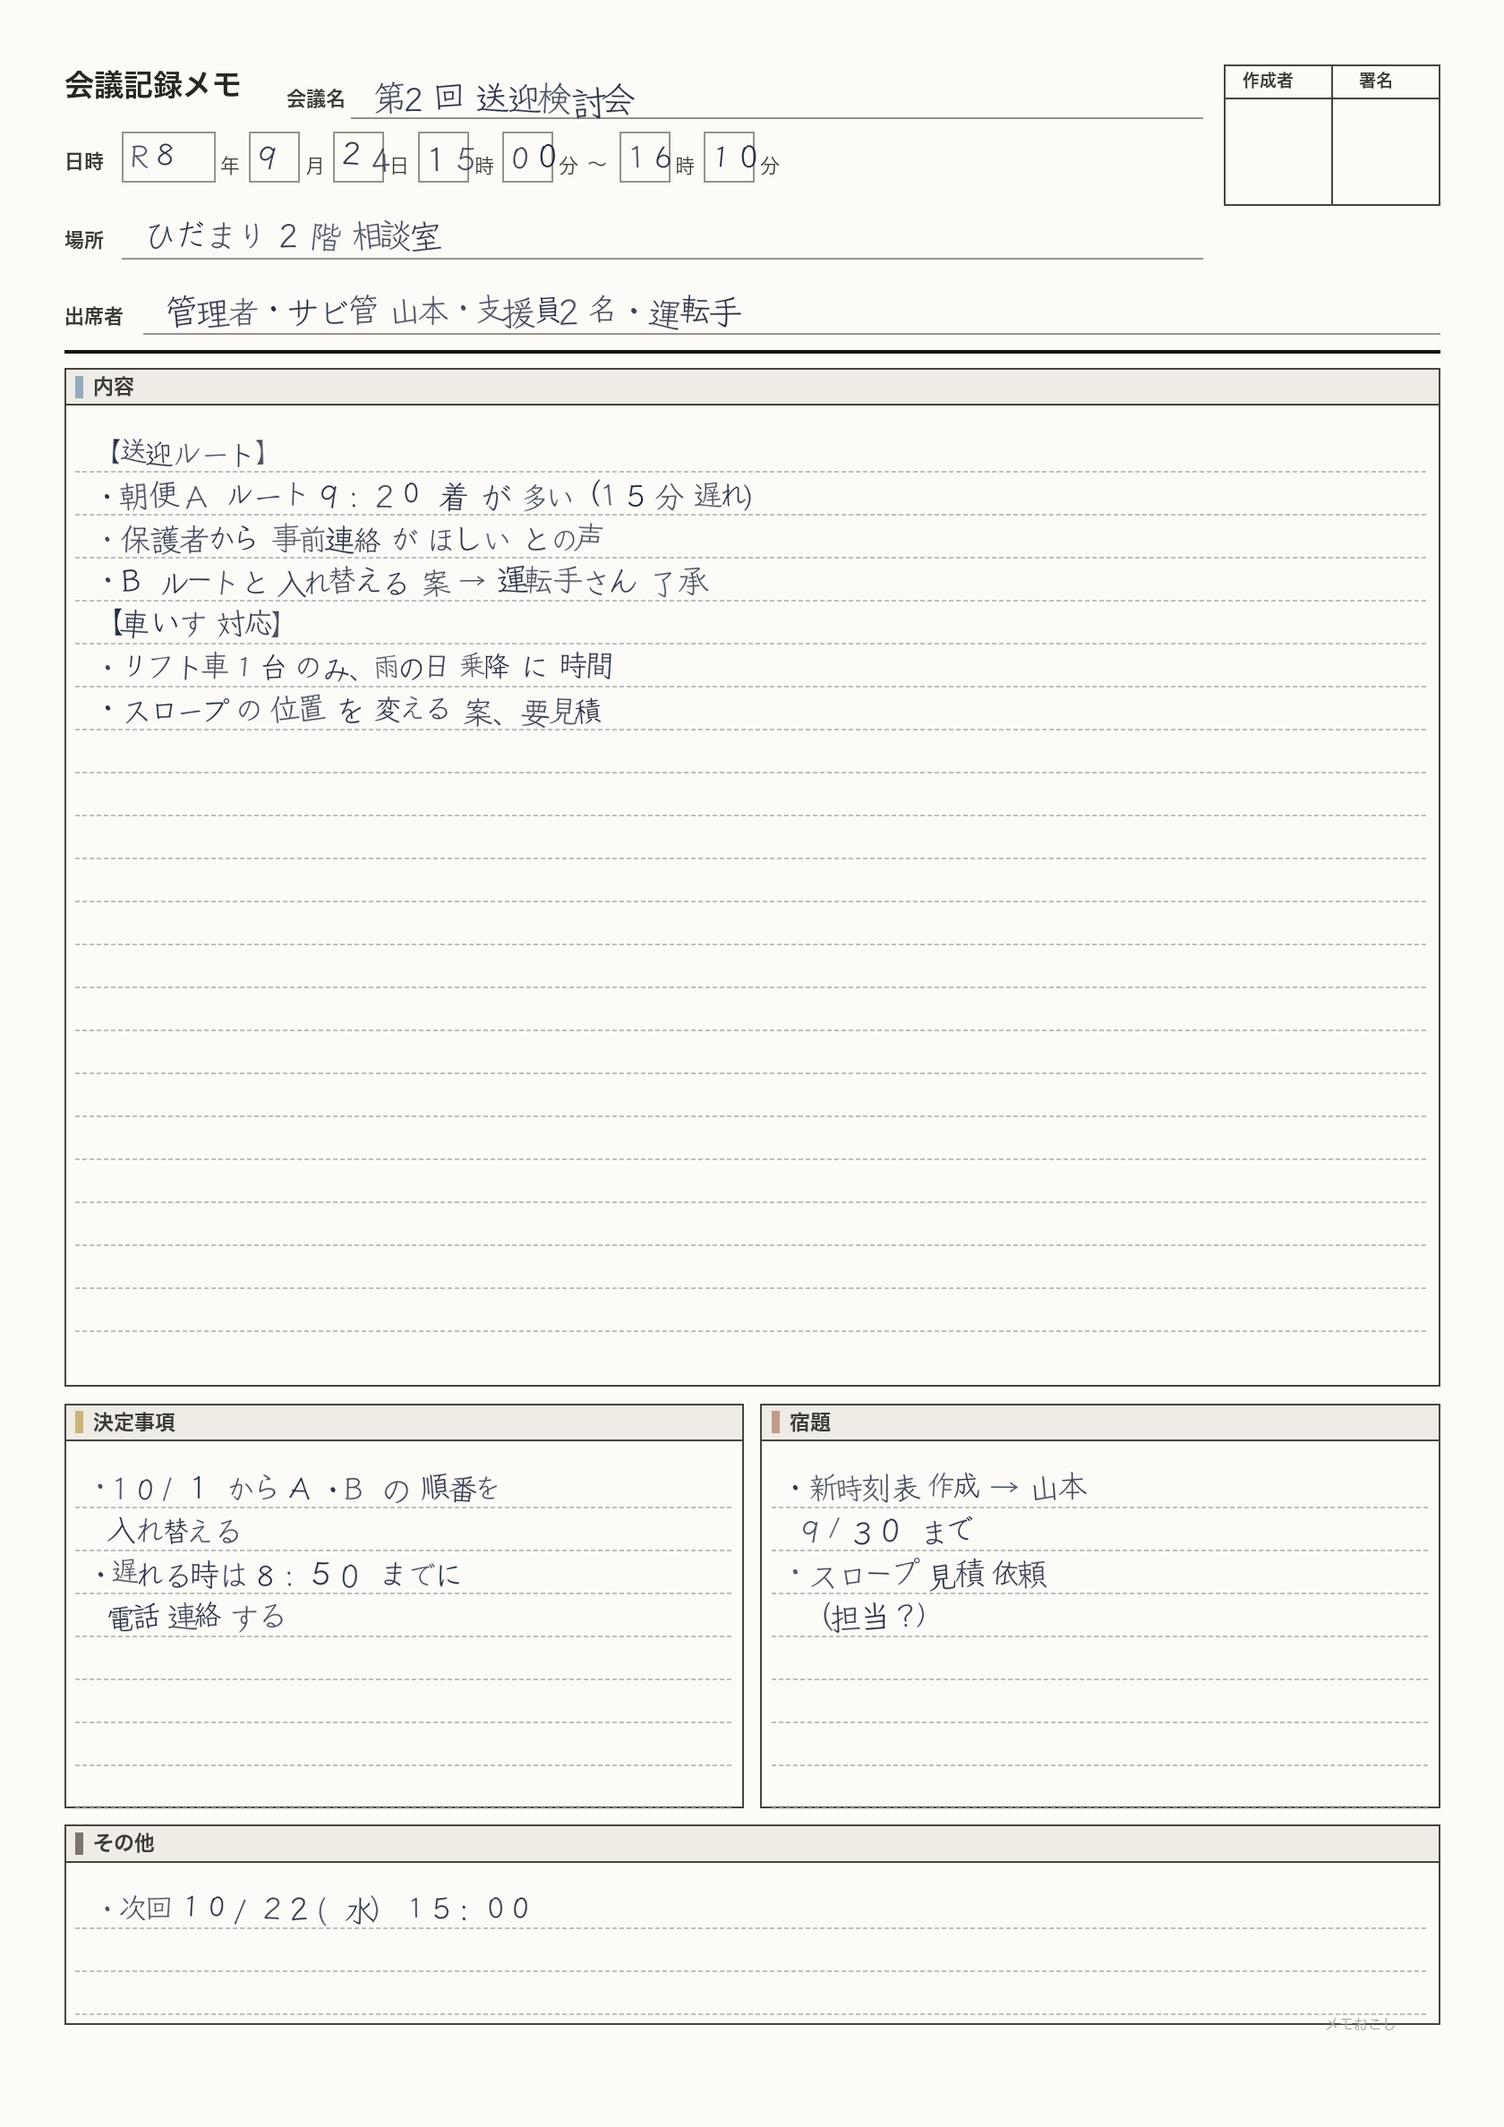
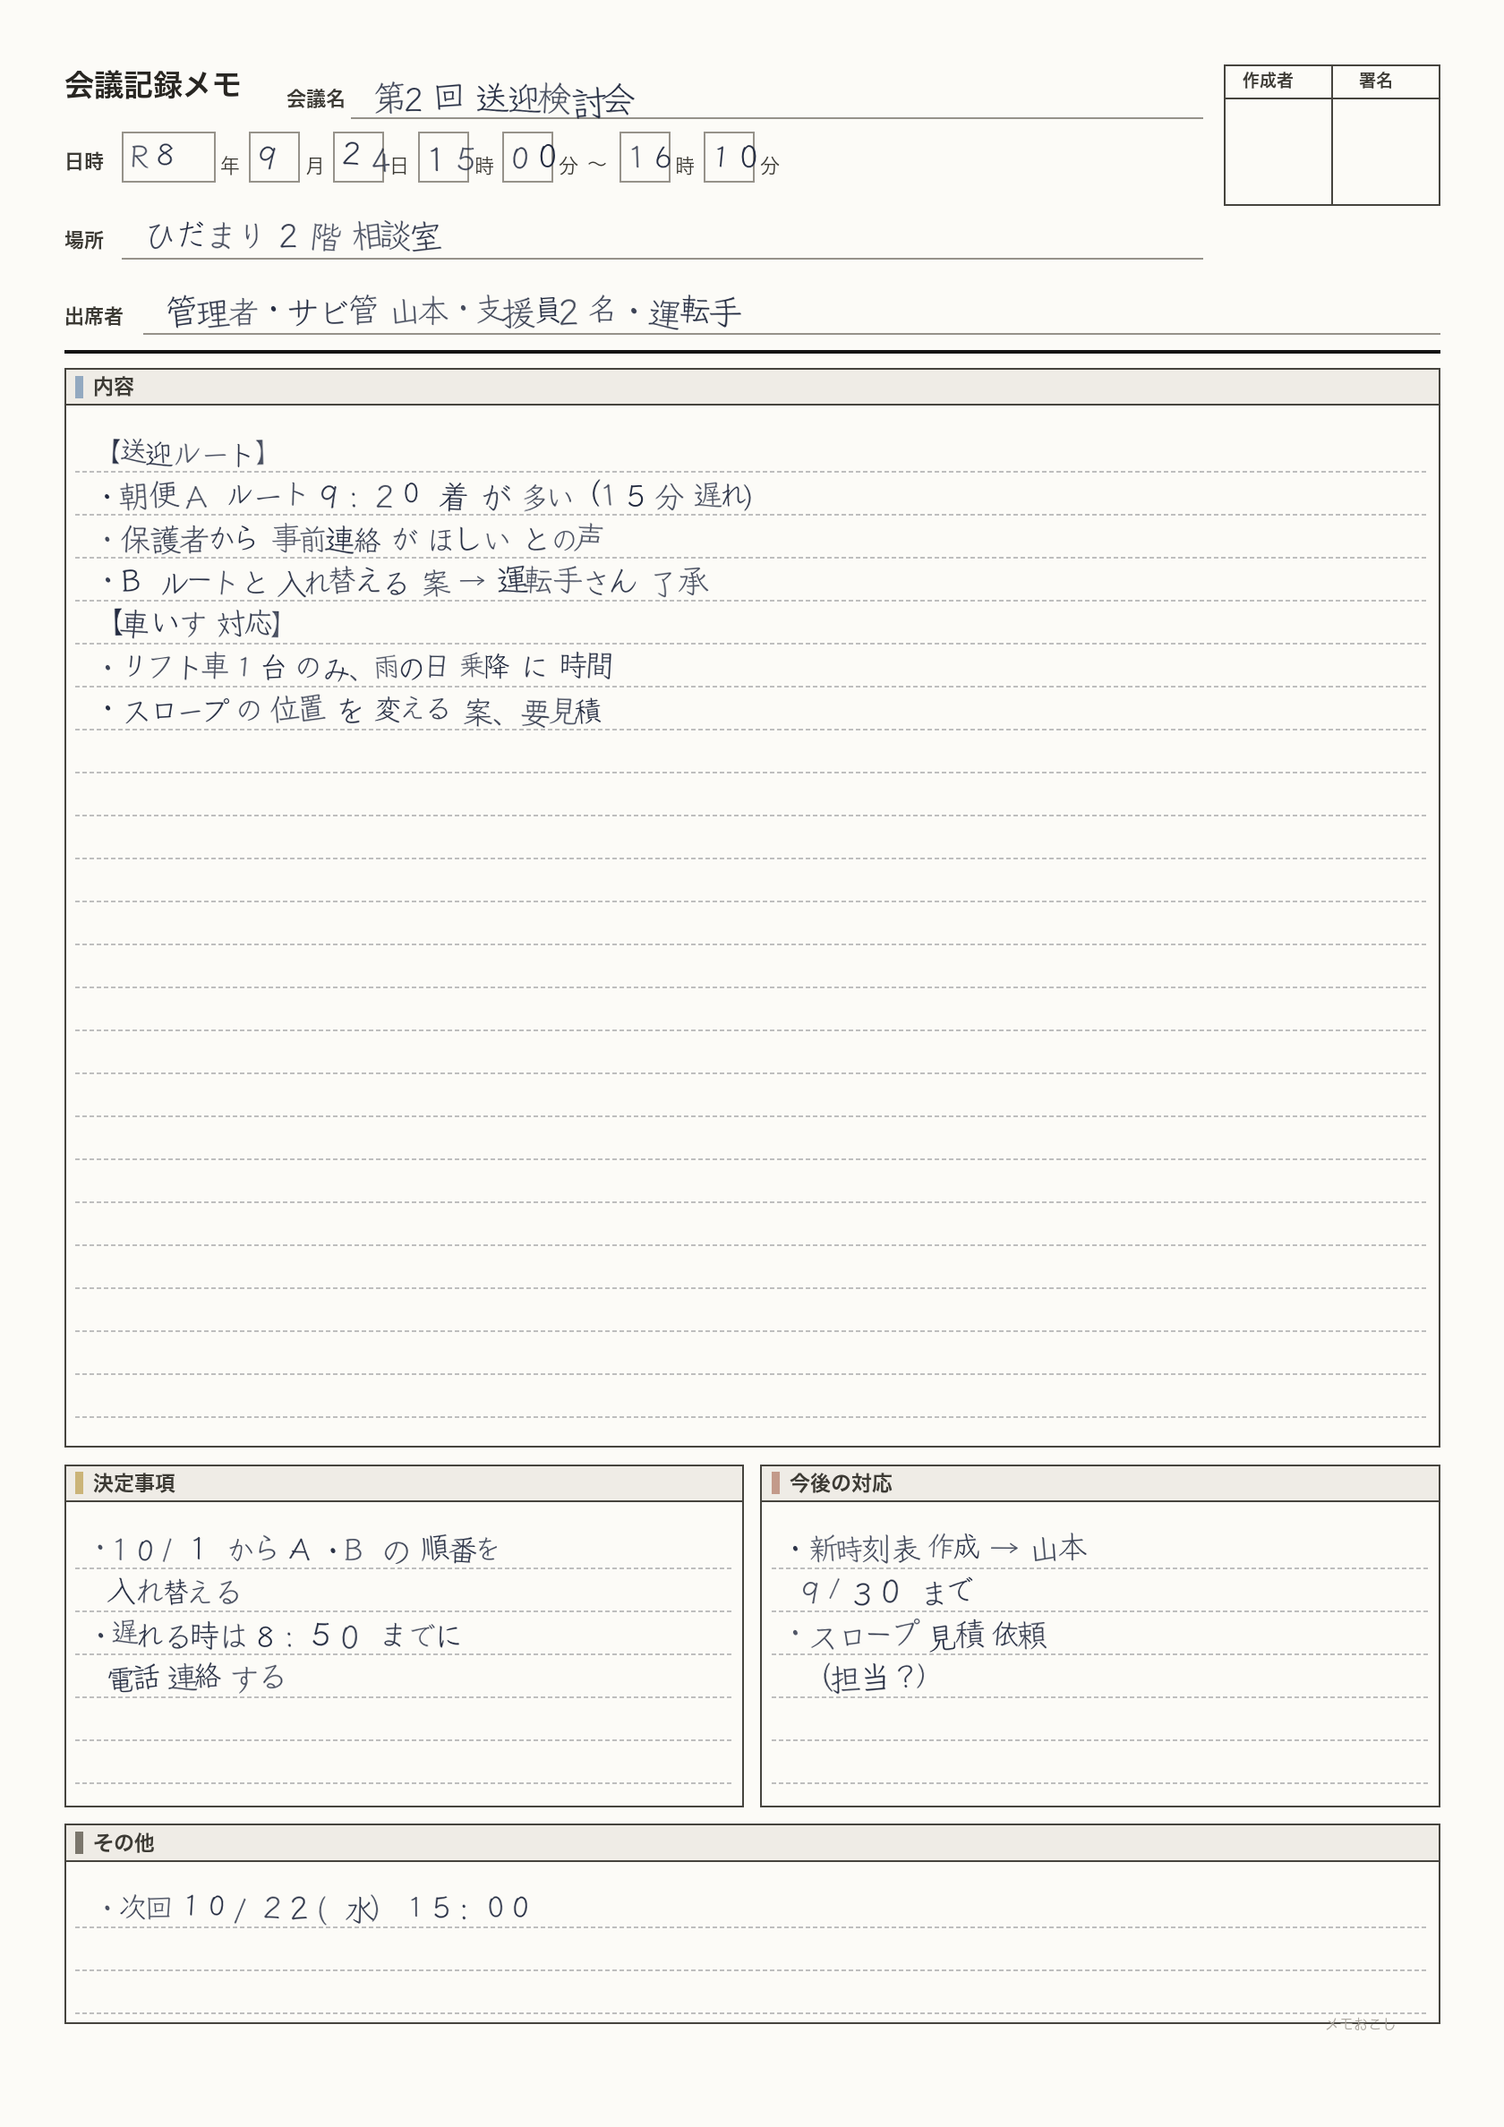
P9-d: 会議の「宿題」を「今後の対応」に改称・内容の枠を大きく（決定事項/今後の対応 8→6本・内容 21→23本）
- 会議の項目名を「宿題」→「今後の対応」（タブ名「対応」）。記録の項目名・プロンプト・確認画面のカード・転記用テキスト・Word/PDF まで統一。
  id（shukudai）は変えていない（保存済みの選択・並び・書き出しファイルがそのまま読める）。
- 内容の枠の重みを 2.3→3.15。既定の並びで 内容 23本・決定事項 6本・今後の対応 6本（罫線6mm固定・入るだけは維持）。
  印刷換算の実測で最後の線から枠の下端まで 内容 4.61mm・決定事項/今後の対応 3.74mm、下の行は A4 の中。
- 「宿題」が app・lib のコード（コメント以外）と public の文字のファイル、会議/面談のプロンプト、転記用テキスト、Word に
  残っていないことを機械で検査するテストを追加。面談のプロンプトはバイト一致・面談の用紙は14通りすべて DOM 一致。
- 会議のダミー（05・06）の説明と、記入済み用紙のダミー06の画像を新しい項目名・配分で作り直した。
- テスト 171→174件。

Changed region(s): [[0.031, 0.654, 0.3405, 0.8098], [0.4643, 0.654, 0.7429, 0.8098]]

diff --git a/lib/items.ts b/lib/items.ts
@@ -22,7 +22,7 @@
 // [DECISION 2026-09-17] **記録の種類を2つにする（P9）**: 面談（interview）と会議（meeting）。
 //   項目ライブラリは種類ごとに別に持つ（`ITEM_LIBRARY`＝面談・`MEETING_LIBRARY`＝会議）。
 //   面談の項目・id・分類・既定値は**1つも変えない**（面談側の動作を変えないため）。
-//   会議は4項目だけ（会議概要・内容・決定事項・宿題）で追加項目は設けない。id は面談と重ならない。
+//   会議は4項目だけ（会議概要・内容・決定事項・今後の対応）で追加項目は設けない。id は面談と重ならない。
 //   どちらを使うかは `libraryFor(type)` で引く。`record_type` の予約枠（P1〜）をここで初めて使う。
 
 /** 記録の種類。スキーマ・API・状態に予約してあった `record_type` の値 */
@@ -87,18 +87,21 @@ export const ITEM_LIBRARY: ItemDef[] = [
 
 /**
  * 会議の項目（P9）。**4項目だけ・すべて基本・すべて既定オン**。追加項目は設けない。
- * 用紙に載るのは内容・決定事項・宿題の3つ（会議概要は用紙に枠を作らない記録だけの項目。P9-c）。
- * 走り書きでは内容・決定事項・宿題が混ざって書かれる前提で、AIが読み取って振り分ける（`lib/prompt.ts`）。
+ * 用紙に載るのは内容・決定事項・今後の対応の3つ（会議概要は用紙に枠を作らない記録だけの項目。P9-c）。
+ * 走り書きでは内容・決定事項・今後の対応が混ざって書かれる前提で、AIが読み取って振り分ける（`lib/prompt.ts`）。
+ * [DECISION 2026-09-17] **「宿題」→「今後の対応」に改称**（P9-d・設計側の指示）。「宿題」は会議録の用語として一般的でなく、
+ *   誰が何をするかを書く欄として自然で、面談の「次回への申し送り」とも系統が揃う。**id（shukudai）は変えない**
+ *   （保存済みの項目の選択・並び・書き出しファイルが読めなくなるため）。タブ名は「対応」。
  * 色・タブ名は `docs/mock/kaigi-mock-v1.html` のとおり。
  */
 export const MEETING_LIBRARY: ItemDef[] = [
   { id: "kaigi", label: "会議概要", tab: "概要", group: "基本", color: "var(--t1)", defaultOn: true, sheet: "none",
     hint: "会議名・日時・場所・出席者（欠席者）など、会議そのものの枠組み（用紙では頭の記入欄に書かれる）" },
   { id: "naiyou", label: "内容", tab: "内容", group: "基本", color: "var(--t2)", defaultOn: true, sheet: "wide",
-    hint: "議題ごとに話し合われた内容・報告・出た意見・検討中の事柄（決定にも宿題にも当たらないもの）" },
+    hint: "議題ごとに話し合われた内容・報告・出た意見・検討中の事柄（決定にも今後の対応にも当たらないもの）" },
   { id: "kettei", label: "決定事項", tab: "決定", group: "基本", color: "var(--t3)", defaultOn: true,
     hint: "この会議で決まったこと（検討中・保留のものは入れない）" },
-  { id: "shukudai", label: "宿題", tab: "宿題", group: "基本", color: "var(--t4)", defaultOn: true,
+  { id: "shukudai", label: "今後の対応", tab: "対応", group: "基本", color: "var(--t4)", defaultOn: true,
     hint: "誰かが持ち帰る作業・次回までにやること（誰が・いつまでに・何を）" },
 ];
 

diff --git a/lib/sheet.ts b/lib/sheet.ts
@@ -40,8 +40,8 @@
 //   伏せるのは撮影後の工程（原則5はそこで守る）。紙そのものの扱いは各事業所の規程に従う。
 // [DECISION 2026-09-17] **会議の用紙**（P9）。同じ A4・同じ記入欄の頭・同じ罫線の規則（6mm固定・入るだけ）で、
 //   割り付けだけ**行の重み**で決める（`sheetRows`）。「内容」は横いっぱいの大きな枠（重み `wideWeight`）、
-//   決定事項と宿題は2列、最後は面談と同じ「その他」だけ。
-//   [DECISION 2026-09-17] **会議概要の枠は用紙から外す**（P9-c）。用紙の項目は内容・決定事項・宿題の3つで、
+//   決定事項と今後の対応は2列、最後は面談と同じ「その他」だけ。
+//   [DECISION 2026-09-17] **会議概要の枠は用紙から外す**（P9-c）。用紙の項目は内容・決定事項・今後の対応の3つで、
 //   会議名・日時・場所・出席者は頭の記入欄に書く（AIがそこから記録の「会議概要」を組み立てる）。
 //   面談の「その他」が記録の項目でないのと同じ扱い（用紙の項目と記録の項目は一致しなくてよい）。
 // [DECISION 2026-09-17] **会議名の欄は題の右**（会議だけ・P9-c）。題の行は押印欄の左にあり、横が空いている。
@@ -79,10 +79,13 @@ export const SHEET = {
   onePageMax: 8,
   /**
    * 横いっぱいの大きな枠（`ItemDef.sheet === "wide"`）の行の高さの重み。ほかの行は 1（P9）。
-   * [DECISION 2026-09-17] 2.5 → **2.3**（P9-b）。記入欄を3行にして頭が高くなったとき、2.5 のままだと
-   *   内容 21本・決定事項/宿題 7本になる。2.3 なら内容 21本のまま決定事項/宿題が 8本残る（モックの 16:6 にも近い）。
+   * [DECISION 2026-09-17] 2.5 → 2.3（P9-b）。記入欄を3行にしたとき、決定事項と右隣の枠の 8本を残すため。
+   * [DECISION 2026-09-17] 2.3 → **3.15**（P9-d・設計側の指示）。実際の会議では内容が最も長くなるので、
+   *   **決定事項と今後の対応を 8→6本に減らし、そのぶん内容を 21→23本に**する。罫線 6mm 固定・入るだけの規則はそのまま。
+   *   重みで 6本/23本 になる範囲は約 2.96〜3.31。3 だと内容が 23本ぎりぎり（あと 0.5mm で 22本）なので、
+   *   両側の余裕が同じくらいになる 3.15 にした（内容はあと約2.3mm・決定事項/今後の対応はあと約1.8mm まで崩れない）。
    */
-  wideWeight: 2.3,
+  wideWeight: 3.15,
 } as const;
 
 /** 記入欄の頭の文言（種類ごと）。題・参加者の欄の見出し・押印欄のラベル（列の数＝ラベルの数） */

diff --git a/app/components/SheetMaker.tsx b/app/components/SheetMaker.tsx
@@ -31,7 +31,7 @@
 //   中の比率も印刷も変えない。2枚のときの並べ方は `lib/sheet.ts` の `previewFit`。
 // [DECISION 2026-09-17] **面談と会議の切り替えを画面の上部に置く**（P9・kaigi-mock-v1）。ホームのカードは1枚のまま。
 //   項目の選択・並び・自由形式は**種類ごとに別に保存**する（`lib/settings.ts` の `keyFor`）。辞書は共通。
-//   会議の割り付け（内容は横いっぱいの大きな枠・決定事項と宿題は2列・会議概要はその他に相乗り）は
+//   会議の割り付け（内容は横いっぱいの大きな枠・決定事項と今後の対応は2列・下部は「その他」だけ）は
 //   `lib/sheet.ts` の `sheetRows` が決める。面談の割り付けは変わらない（同じ関数で重みがすべて1）。
 // [DECISION 2026-09-17] **押印欄**を記入欄の頭の右上に置く（P9・6-b。寸法と理由は `lib/sheet.ts` の `STAMP`）。
 //   会議＝作成者／署名の2列、面談＝記録者の1列。自由形式にも同じ欄。記入欄はそのぶん狭くなる（重ねない）。

diff --git a/docs/samples/make-dummy-06-meeting-sheet.py b/docs/samples/make-dummy-06-meeting-sheet.py
@@ -3,7 +3,7 @@
 # 必要なもの: Python の PIL（Pillow）、macOS の Klee（手書き）とヒラギノ角ゴシック（印刷の文字）。無い環境では動かない。
 # 原本テキストは dummy-memo-06-meeting-sheet.md にある。乱数の種は固定。
 # 見るべき点: **会議名は頭の「会議名」欄にだけ書いてある**（本文には出てこない）。AIがそこから会議概要に入れられるか。
-# 用紙の割り付けは P9-c の会議の用紙（頭: 題＋会議名／日時のマス／場所／出席者・右上に押印欄。枠: 内容／決定事項・宿題／その他）。
+# 用紙の割り付けは P9-d の会議の用紙（2026-09-17 に「宿題」→「今後の対応」・内容23本/決定事項と今後の対応6本に作り直した）。元は P9-c の会議の用紙（頭: 題＋会議名／日時のマス／場所／出席者・右上に押印欄。枠: 内容／決定事項・宿題／その他）。
 import random
 from PIL import Image, ImageDraw, ImageFont
 
@@ -102,7 +102,7 @@ def box(x0, y0, x1, y1, label, color, lines):
     return y0 + 8.4
 
 top = 42.4
-b1 = box(0, top, 192, top + 142.2, "内容", (147, 169, 192), 21)
+b1 = box(0, top, 192, top + 150.7, "内容", (147, 169, 192), 23)
 lines_body = [
     "【送迎ルート】",
     "・朝便 A ルート 9:20 着 が 多い（15分 遅れ）",
@@ -115,15 +115,15 @@ lines_body = [
 for i, s in enumerate(lines_body):
     hand(4, b1 + 1.2 + i * 6, s, 4.2)
 
-top2 = top + 142.2 + 2.4
-b2 = box(0, top2, 94.8, top2 + 56.4, "決定事項", (203, 180, 120), 8)
-b3 = box(97.2, top2, 192, top2 + 56.4, "宿題", (195, 154, 138), 8)
+top2 = top + 150.7 + 2.4
+b2 = box(0, top2, 94.8, top2 + 47.8, "決定事項", (203, 180, 120), 6)
+b3 = box(97.2, top2, 192, top2 + 47.8, "今後の対応", (195, 154, 138), 6)
 for i, s in enumerate(["・10/1 から A・B の 順番を", "  入れ替える", "・遅れる時は 8:50 までに", "  電話 連絡 する"]):
     hand(3, b2 + 1.2 + i * 6, s, 4.2)
 for i, s in enumerate(["・新時刻表 作成 → 山本", "  9/30 まで", "・スロープ 見積 依頼", "  （担当？）"]):
     hand(100, b3 + 1.2 + i * 6, s, 4.2)
 
-top3 = top2 + 56.4 + 2.4
+top3 = top2 + 47.8 + 2.4
 b4 = box(0, top3, 192, top3 + 27.85, "その他", (123, 118, 108), 3)
 hand(4, b4 + 1.2, "・次回 10/22(水) 15:00", 4.2)
 text(176, 272.5, "メモおこし", 6, GO3, (170, 165, 158))

diff --git a/docs/samples/make-dummy-05-meeting.py b/docs/samples/make-dummy-05-meeting.py
@@ -2,7 +2,7 @@
 # 架空の内容で、実データは一切含まない（人名も架空）。ビルドにもテストにも関わらない（手で動かすだけ）。
 # 必要なもの: Python の PIL（Pillow）と macOS の Klee フォント。無い環境では動かない。
 # 原本テキストは dummy-memo-05-meeting.md にある。乱数の種は固定。
-# 走り書きらしく、内容・決定・宿題を段落の中に混ぜて書いてある（AIが振り分けられるかを見る素材）。
+# 走り書きらしく、内容・決定・今後の対応（旧「宿題」）を段落の中に混ぜて書いてある（AIが振り分けられるかを見る素材）。
 import random
 from PIL import Image, ImageDraw, ImageFont
 

diff --git a/docs/samples/dummy-memo-06-meeting-sheet.md b/docs/samples/dummy-memo-06-meeting-sheet.md
@@ -1,6 +1,6 @@
 # dummy-memo-06-meeting-sheet の原本（ground truth）
 
-印刷した「会議記録メモ」（P9-c の会議の用紙）に手書きで記入した、という想定の架空のダミー。
+印刷した「会議記録メモ」（P9-c の会議の用紙。2026-09-17 P9-d で「今後の対応」・内容23本/決定事項と今後の対応6本に作り直した）に手書きで記入した、という想定の架空のダミー。
 実在の人物・事業所とは関係がない（「山本」「ひだまり」も架空）。作るツールは `make-dummy-06-meeting-sheet.py`。
 
 **会議名は頭の「会議名」欄にだけ書いてある**（本文の枠には出てこない）。AIが頭の記入欄から会議概要を組み立てられるかを見る素材。
@@ -28,7 +28,7 @@
 ・10/1 から A・B の 順番を 入れ替える
 ・遅れる時は 8:50 までに 電話 連絡 する
 
-【宿題】
+【今後の対応】
 ・新時刻表 作成 → 山本 9/30 まで
 ・スロープ 見積 依頼 （担当？）
 
@@ -43,5 +43,5 @@
 | 会議名 | **会議概要に「会議名：第2回 送迎検討会」**が入る（頭の欄から読む） |
 | 日時・場所・出席者 | 会議概要に行を分けて入る。空欄の行は書かない |
 | 人名（山本） | 赤にならず本文に残る |
-| 宿題 | スロープ見積は担当を補わない（担当未定） |
+| 今後の対応 | スロープ見積は担当を補わない（担当未定） |
 | その他 | どの項目にも当たらなければこぼれ枠へ（黙って捨てない） |
